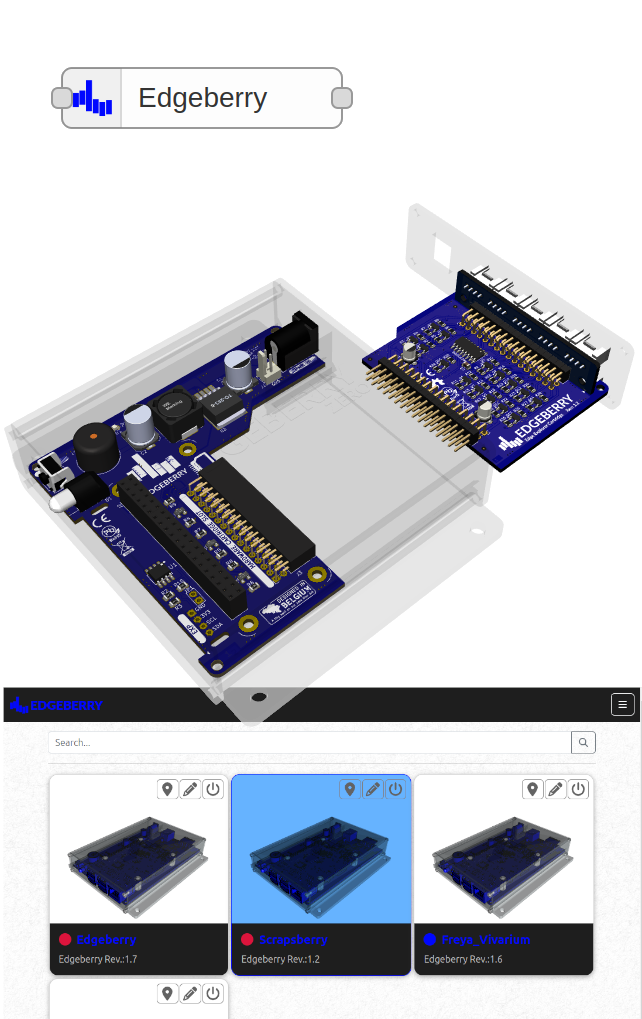
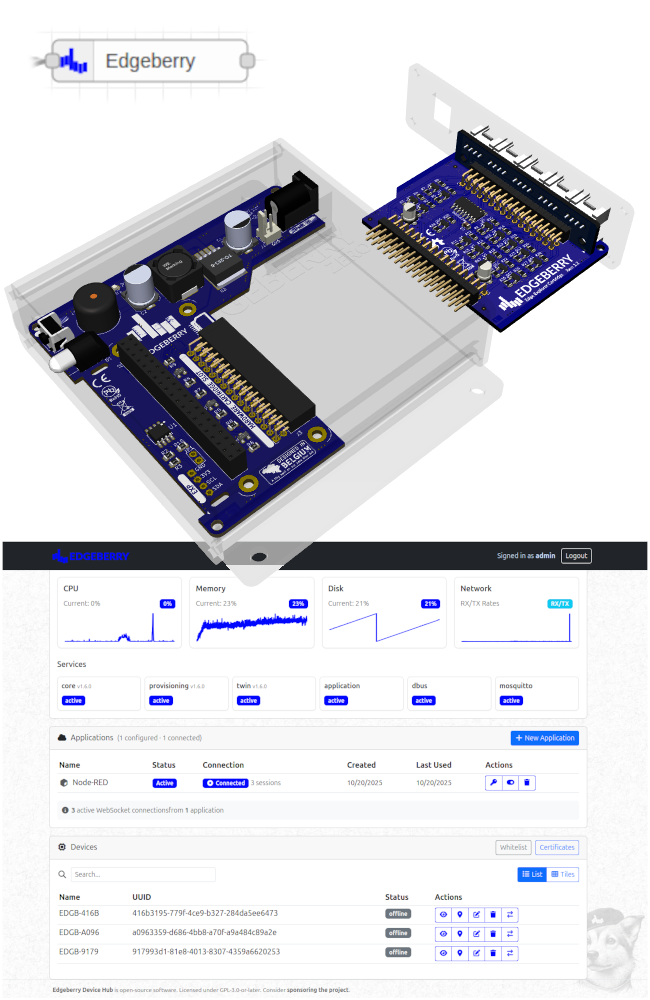
ReadMe: DeviceHub instead of Dashboard

diff --git a/profile/README.md b/profile/README.md
@@ -13,7 +13,7 @@ physical world with the digital realm.
 - The **Baseboard** is the hardware component that connects all Edgeberry's components to the Raspberry Pi, providing it with a robust power supply, status indicators and a unique identifier for cloud connectivity.
 - The **Enclosure** shields the system from real-world environmental challenges.
 - The **Hardware Cartridges** are the application-specific hardware modules, with a design template available in KiCad EDA.
-- The **Dashboard** is an online Device Management tool for remotely managing your Edgeberry-based devices.
+- The **Device Hub** is the bridge, connecting the real-world devices with the cloud applications
 
 Edgeberry is fully **open-source**, leveraging open platforms like Raspberry Pi and GNU/Linux and designed with open tools such as KiCad EDA and FreeCAD, embodying the ethos of freedom and democratizing IoT technology.
 
